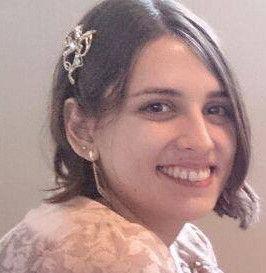
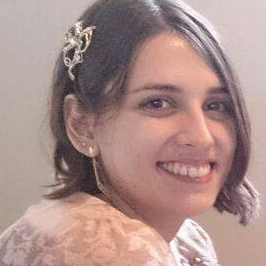
valeska's and ana's photos, team page ok

diff --git a/web-server/src/templates/team.html b/web-server/src/templates/team.html
@@ -18,7 +18,7 @@
                     </div>
                     <div class="card-content">
                         <span class="card-title activator grey-text text-darken-4"><small>RAPHAEL VICTOR</small><br/>
-                            <small><em><a class="orange-text text-darken-4" href="#">Web Server & UI</a></em></small></span>
+                            <small><em><a class="orange-text text-darken-4" href="#">Server & UI Design</a></em></small></span>
                         <p>
                             <a class="blue-text text-lighten-2" href="https://www.facebook.com/raphael.rv">
                                 <i class="fa fa-facebook-square">Facebook</i>
@@ -38,7 +38,7 @@
                     </div>
                     <div class="card-content">
                         <span class="card-title activator grey-text text-darken-4"><small>ROBERTO FREITAS</small><br/>
-                            <small><em><a class="orange-text text-darken-1" href="#">Learning texts</a></em></small></span>
+                            <small><em><a class="orange-text text-darken-4" href="#">Wiki blablabla</a></em></small></span>
                         <p>
                             <a class="blue-text text-lighten-2" href="https://www.facebook.com/robs.fks">
                                 <i class="fa fa-facebook-square">Facebook</i>
@@ -55,11 +55,11 @@
             <div class="col s12 offset-m2 m3">
                 <div class="card card-avatar center">
                     <div class="waves-effect waves-block waves-light">
-                        <img class="activator" height="220" src="{% static 'img/raph.jpg' %}">
+                        <img class="activator" height="220" src="{% static 'img/valeska.jpg' %}">
                     </div>
                     <div class="card-content">
                         <span class="card-title activator grey-text text-darken-4"><small>VALESKA PARONI</small><br/>
-                            <small><em><a class="orange-text text-darken-1" href="#">Python algorithms</a></em></small></span>
+                            <small><em><a class="orange-text text-darken-4" href="#">Python algorithms</a></em></small></span>
                         <p>
                             <a class="blue-text text-lighten-2" href="https://www.facebook.com/valeskaparoni">
                                 <i class="fa fa-facebook-square">Facebook</i>
@@ -77,11 +77,11 @@
             <div class="col s12 offset-m2 m3">
                 <div class="card card-avatar center">
                     <div class="waves-effect waves-block waves-light">
-                        <img class="activator" height="220" src="{% static 'img/raph.jpg' %}">
+                        <img class="activator" height="220" src="{% static 'img/ana.jpg' %}">
                     </div>
                     <div class="card-content">
                         <span class="card-title activator grey-text text-darken-4"><small>ANA FIGUEIROA</small><br/>
-                            <small><em><a class="orange-text text-darken-1" href="#">C algorithms</a></em></small></span>
+                            <small><em><a class="orange-text text-darken-4" href="#">C algorithms</a></em></small></span>
                         <p>
                             <a class="blue-text text-lighten-2" href="https://www.facebook.com/analuiza.figueiroa">
                                 <i class="fa fa-facebook-square ">Facebook</i>
@@ -97,11 +97,11 @@
             <div class="col s12 offset-m2 m3">
                 <div class="card card-avatar center">
                     <div class="waves-effect waves-block waves-light">
-                        <img class="activator" height="220" src="{% static 'img/raph.jpg' %}">
+                        <img class="activator" height="220" src="{% static 'img/rafael.jpg' %}">
                     </div>
                     <div class="card-content">
                         <span class="card-title activator grey-text text-darken-4"><small>RAFAEL MARQUES</small><br/>
-                            <small><em><a class="red-text text-darken-1" href="#">x</a></em></small></span>
+                            <small><em><a class="orange-text text-darken-4" href="#">Data Presentation</a></em></small></span>
                         <p>
                             <a class="blue-text text-lighten-2" href="https://www.facebook.com/rafael.marques.77128">
                                 <i class="fa fa-facebook-square">Facebook</i>
